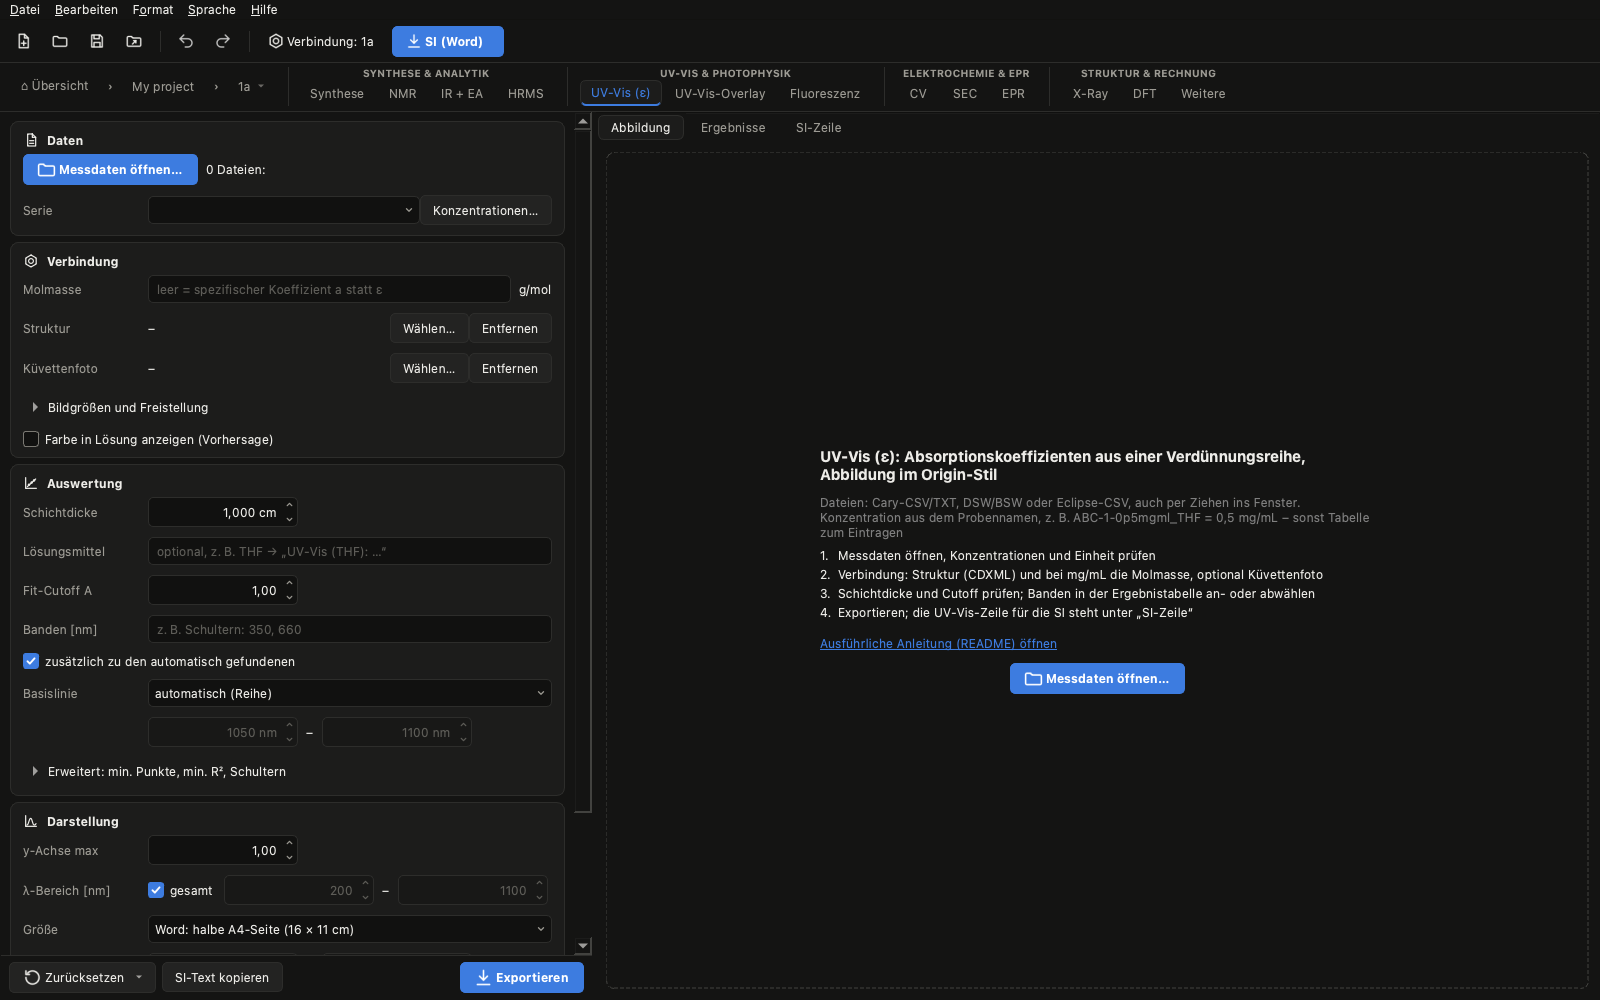
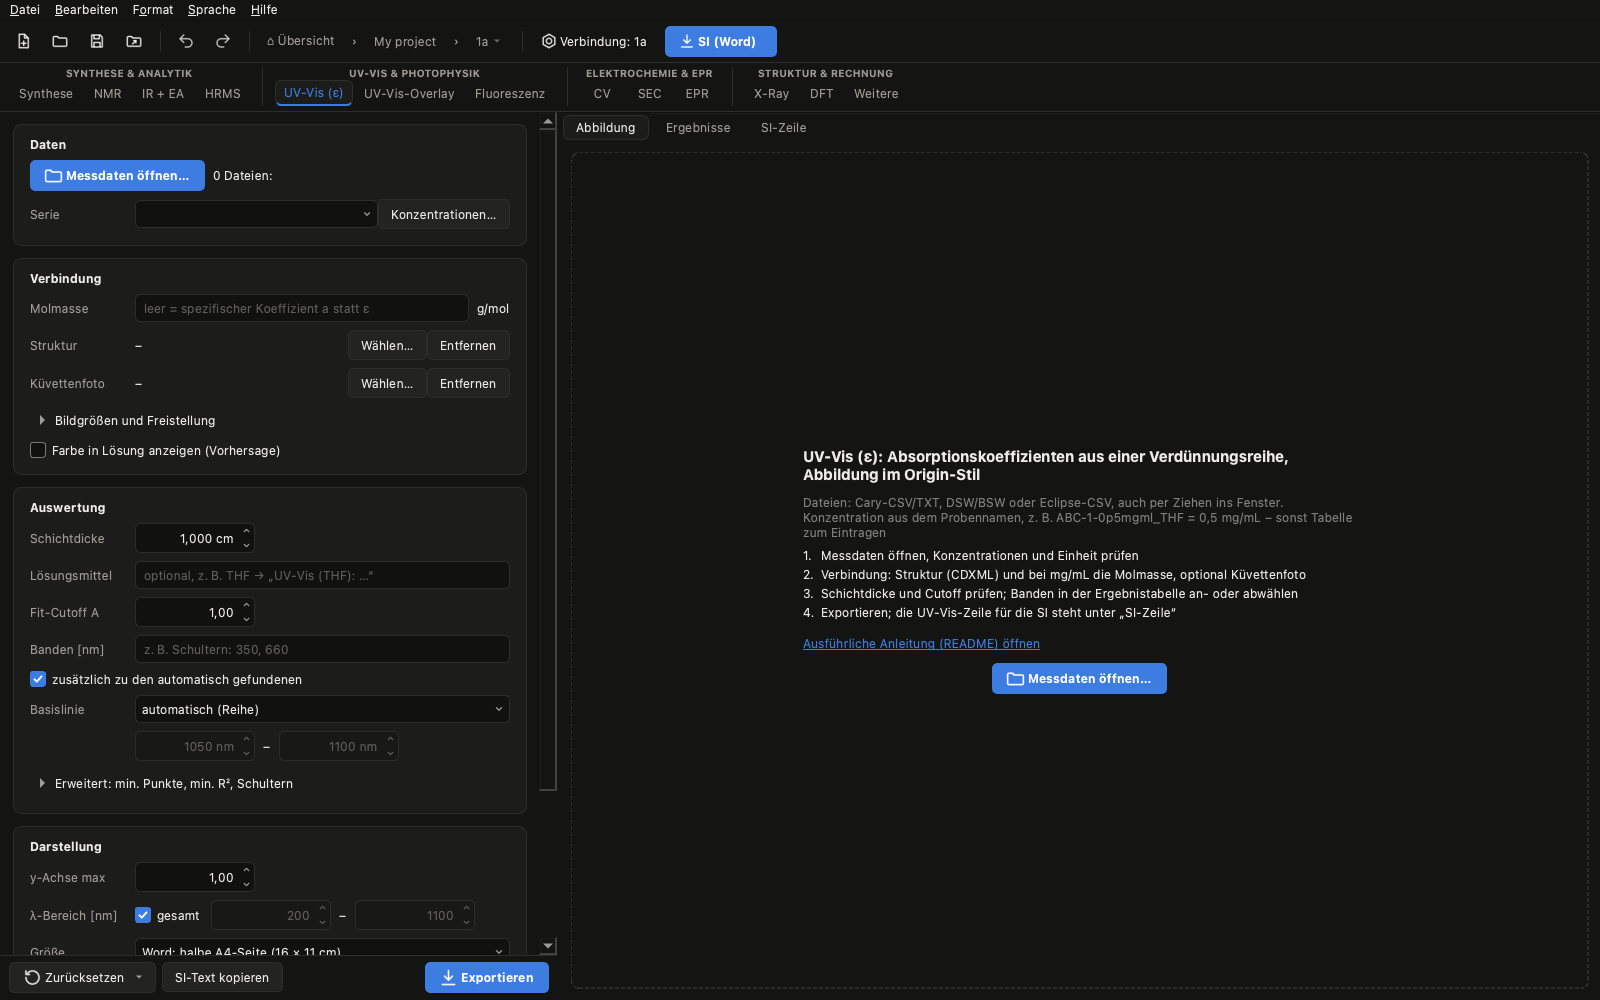
ui: spacing grid, dialog margins, unified card titles, changelog and screenshots
- Cards and forms on a 4/8/12/16 grid; ε tab cards match the other tabs (no title icons)
- Dialogs: 16 px margins, default button highlighted (central in STYLE)
- "Display" cards in CV/SEC/EPR named like X-Ray/DFT; X-Ray result tabs "Caption"/"Tables"
- Other tab: empty list hidden
- tools/compare_figures.py: pixel comparison of two selftest runs (figures must not change)
- CHANGELOG (Unreleased), README Mnova card, README screenshots regenerated

diff --git a/elucida/app/style.py b/elucida/app/style.py
@@ -11,8 +11,9 @@ import shiboken6
 from PySide6.QtCore import QByteArray, QEvent, QObject, QRectF, Qt
 from PySide6.QtGui import QColor, QGuiApplication, QIcon, QImage, QPainter, QPalette, QPixmap
 from PySide6.QtSvg import QSvgRenderer
-from PySide6.QtWidgets import (QAbstractSpinBox, QApplication, QComboBox, QFormLayout, QFrame, QHBoxLayout, QLabel,
-                               QScrollArea, QSizePolicy, QPushButton, QStyleFactory, QVBoxLayout, QWidget)
+from PySide6.QtWidgets import (QAbstractSpinBox, QApplication, QComboBox, QDialog, QFileDialog, QFormLayout, QFrame,
+                               QHBoxLayout, QLabel, QMessageBox, QScrollArea, QSizePolicy, QPushButton, QStyleFactory,
+                               QVBoxLayout, QWidget)
 
 COLORS = {
     # Abstufung wie im Entwurf: Seite < Karte, Felder etwas abgesetzt, warme Grautöne, dezente Ränder
@@ -33,11 +34,7 @@ _SVG = {
     "reveal": '<path d="M3 7.5A1.5 1.5 0 0 1 4.5 6h4l2 2h9A1.5 1.5 0 0 1 21 9.5v8a1.5 1.5 0 0 1-1.5 1.5h-15'
               'A1.5 1.5 0 0 1 3 17.5z"/><path d="M10 16l4.5-4.5M11.5 11.5h3v3"/>',
     "reset": '<path d="M4.5 12a7.5 7.5 0 1 0 2.2-5.3"/><path d="M4.5 4.5v4h4"/>',
-    "data": '<path d="M7 3h7l5 5v13H7z"/><path d="M14 3v5h5M10 13h6M10 17h6"/>',
     "compound": '<path d="M12 3l7.8 4.5v9L12 21l-7.8-4.5v-9z"/><circle cx="12" cy="12" r="3.6"/>',
-    "eval": '<path d="M4 4v16h16"/><path d="M6.5 17.5 19 6"/><circle cx="9" cy="14.6" r="1.1"/>'
-            '<circle cx="13" cy="11.3" r="1.1"/><circle cx="16.6" cy="8.1" r="1.1"/>',
-    "plot": '<path d="M4 4v16h16"/><path d="M6 18c2.5 0 3-10 5.5-10S14 18 17 18c1.2 0 2-1 2.5-2"/>',
     "new": '<path d="M7 3h7l5 5v13H7z"/><path d="M14 3v5h5M13 12v6M10 15h6"/>',
     "save": '<path d="M5 4h11l3 3v13H5z"/><path d="M8 4v5h7V4M8 20v-6h8v6"/>',
     "undo": '<path d="M9 14 4 9l5-5"/><path d="M4 9h10.5a5.5 5.5 0 0 1 0 11H11"/>',
@@ -146,25 +143,20 @@ def list_button(txt):
 
 def hide_when_empty(table):
     """Dateiliste ohne Einträge ausblenden (Leer-Zustand: die Anleitung rechts nennt Dateien und ersten Schritt)."""
-    upd = lambda *_: shiboken6.isValid(table) and table.setVisible(table.rowCount() > 0)   # Neuaufbau: schon gelöscht
+    upd = lambda *_: shiboken6.isValid(table) and table.setVisible(table.model().rowCount() > 0)   # Neuaufbau: gelöscht
     m = table.model()
     for sig in (m.rowsInserted, m.rowsRemoved, m.modelReset):
         sig.connect(upd)
     upd()
 
 
-def card(title, icon_name=None):
-    """Gruppe als Karte mit Symbol im Titel. Gibt (Karte, Inhalts-Widget) zurück."""
+def card(title):
+    """Gruppe als Karte, Titel und Ränder wie QGroupBox in den übrigen Tabs. Gibt (Karte, Inhalts-Widget) zurück."""
     frame = QFrame(objectName="card")
     v = QVBoxLayout(frame)
-    v.setContentsMargins(12, 10, 12, 10)
-    v.setSpacing(6)
+    v.setContentsMargins(16, 12, 16, 16)
+    v.setSpacing(8)
     head = QHBoxLayout()
-    head.setSpacing(6)
-    if icon_name:
-        lb = QLabel(objectName="cardIcon")
-        lb.setPixmap(pixmap(icon_name, 16))
-        head.addWidget(lb)
     t = QLabel(title, objectName="cardTitle")
     head.addWidget(t)
     head.addStretch(1)
@@ -197,10 +189,10 @@ def tidy(root):
         top.setSpacing(12)
     for g in root.findChildren(QGroupBox):                    # Karten: gleicher Innenrand (oben sitzt der Titel)
         if g.layout() is not None and not any(isinstance(f, Fold) and f.group is g for f in g.children()):
-            g.layout().setContentsMargins(16, 6, 16, 14)
+            g.layout().setContentsMargins(16, 8, 16, 16)       # Raster 4/8/12/16
     for fl in root.findChildren(QFormLayout):
-        fl.setVerticalSpacing(10)
-        fl.setHorizontalSpacing(14)
+        fl.setVerticalSpacing(8)
+        fl.setHorizontalSpacing(12)
         for r in range(fl.rowCount()):
             it = fl.itemAt(r, QFormLayout.SpanningRole)
             if it is not None and isinstance(it.widget(), QPushButton):
@@ -303,7 +295,7 @@ def tidy(root):
 class _WheelGuard(QObject):
     """Mausrad über Zahlenfeldern und Auswahllisten in einer scrollbaren Spalte: ohne Fokus scrollt die Spalte weiter,
     statt beim Darüberfahren den Wert zu verstellen. Erst nach Anklicken (Fokus) ändert das Mausrad den Wert.
-    Einmal für die ganze Anwendung (apply)."""
+    Dazu einheitliche Dialogränder (16 px wie die Karten). Einmal für die ganze Anwendung (apply)."""
 
     def eventFilter(self, obj, ev):
         t = ev.type()
@@ -313,6 +305,9 @@ class _WheelGuard(QObject):
                 obj.setAlignment(Qt.AlignRight | Qt.AlignVCenter)
             if obj.property("fieldw"):                          # Rasterbreite nach dem Stylesheet erneut festsetzen
                 obj.setFixedWidth(FIELD_W)
+        elif (t == QEvent.Polish and isinstance(obj, QDialog) and not isinstance(obj, (QMessageBox, QFileDialog))
+              and obj.layout() is not None):
+            obj.layout().setContentsMargins(16, 16, 16, 16)
         elif t == QEvent.Wheel and isinstance(obj, (QAbstractSpinBox, QComboBox)) and not obj.hasFocus():
             p = obj.parentWidget()
             while p is not None and not isinstance(p, QScrollArea):
@@ -485,7 +480,7 @@ class Fold(QObject):
         self.opened = bool(on)
         self.body.setVisible(self.opened)
         lay = self.group.layout()                             # zugeklappt: nur die Titelzeile, kein leerer Innenrand
-        lay.setContentsMargins(16, 6 if self.opened else 0, 16, 14 if self.opened else 0)
+        lay.setContentsMargins(16, 8 if self.opened else 0, 16, 16 if self.opened else 0)
         if self.opened:
             self.group.setMinimumHeight(0)
             self.group.setMaximumHeight(16777215)
@@ -589,6 +584,9 @@ QPushButton:disabled {{ color: {c['disabled']}; background: {c['alt']}; }}
 QPushButton[accent="true"] {{ background: {c['accent']}; color: {c['on_accent']}; border-color: {c['accent']};
     font-weight: bold; }}
 QPushButton[accent="true"]:hover {{ background: {c['accent_hover']}; border-color: {c['accent_hover']}; }}
+QDialog QPushButton:default:enabled {{ background: {c['accent']}; color: {c['on_accent']}; border-color: {c['accent']};
+    font-weight: bold; }}
+QDialog QPushButton:default:enabled:hover {{ background: {c['accent_hover']}; border-color: {c['accent_hover']}; }}
 QTabWidget::pane {{ border: 1px solid {c['border']}; border-radius: 8px; background: {c['window']}; top: -1px; }}
 QTabBar::tab {{ background: transparent; color: {c['text2']}; border: 1px solid transparent; border-radius: 6px;
     padding: 4px 12px; margin: 3px 2px; }}

diff --git a/elucida/app/i18n.py b/elucida/app/i18n.py
@@ -1108,7 +1108,7 @@ TEXTS = {
     "cv_offset_tip": ("Lage von Fc⁺/Fc gegen die Referenzelektrode; wird von allen Potentialen abgezogen.",
                       "Position of Fc⁺/Fc vs. the reference electrode; subtracted from all potentials."),
     "cv_electrode": ("Referenzelektrode", "Reference electrode"),
-    "cv_display": ("Darstellung CV", "CV display"),
+    "cv_display": ("Darstellung", "Display"),
     "cv_gradient": ("Farbverlauf nach Scanrate (blau → rot)", "Colour gradient by scan rate (blue → red)"),
     "cv_density": ("Stromdichte j [mA cm⁻²] (Elektrodenfläche aus der Datei)",
                    "Current density j [mA cm⁻²] (electrode area from the file)"),
@@ -1185,7 +1185,7 @@ TEXTS = {
     "sec_shift_tip": ("Lage von Fc⁺/Fc gegen die Referenzelektrode; wird abgezogen (0 = Achse wie gemessen).",
                       "Position of Fc⁺/Fc vs. the reference electrode; subtracted (0 = axis as measured)."),
     "sec_from_cv": ("aus CV-Tab", "from CV tab"),
-    "sec_display": ("Darstellung SEC", "SEC display"),
+    "sec_display": ("Darstellung", "Display"),
     "sec_mode": ("Ansicht", "View"),
     "sec_mode_spectra": ("Spektrenserie", "Spectral series"),
     "sec_mode_trace": ("A bei λ gegen E", "A at λ vs. E"),
@@ -1282,7 +1282,7 @@ TEXTS = {
                         "Field ranges that are not drawn (mT), e.g. the sharp radical signal at g ≈ 2."),
     "epr_smooth": ("Glätten", "Smoothing"),
     "epr_smooth_tip": ("Gleitender Mittelwert über diese Feldbreite", "Moving average over this field width"),
-    "epr_display": ("Darstellung EPR", "EPR display"),
+    "epr_display": ("Darstellung", "Display"),
     "epr_xrange": ("B-Bereich", "B range"),
     "epr_unit": ("Feldeinheit", "Field unit"),
     "epr_normalize": ("Normieren (Messung: max |I| = 1, Simulation mit demselben Faktor)",
@@ -1526,7 +1526,7 @@ TEXTS = {
                           "Olex2/SHELXL and refine again"),
     "xr_cif_no_esd": ("Wert aus der CIF (ohne Standardabweichung, z. B. reitendes H)",
                       "value from the CIF (no s.u., e.g. riding H)"),
-    "xr_tables": ("Tabellen für die SI", "Tables for the SI"),
+    "xr_tables": ("Tabellen", "Tables"),
     "xr_copy_crystal": ("Kristalldaten kopieren", "Copy crystal data"),
     "xr_copy_params": ("Parameter kopieren", "Copy parameters"),
     "xr_excel": ("Excel speichern", "Save Excel"),
@@ -1600,7 +1600,7 @@ TEXTS = {
     "xr_wire_name": ("Drahtmodell-Gruppen", "Wireframe groups"),
     "xr_wire_name_ph": ("Bezeichnung für die Bildunterschrift, z. B. Dipp groups",
                         "Name for the caption, e.g. Dipp groups"),
-    "xr_caption": ("Bildunterschrift (Vorschlag)", "Caption (suggestion)"),
+    "xr_caption": ("Bildunterschrift", "Caption"),
     "xr_caption_copy": ("Bildunterschrift kopieren", "Copy caption"),
     "xr_align": ("Ausrichten", "Orientation"),
     "xr_align_bond": ("Bindung zeigt", "Bond points"),

diff --git a/tools/compare_figures.py b/tools/compare_figures.py
@@ -1,0 +1,51 @@
+"""Abbildungen zweier Selbsttest-Läufe pixelgenau vergleichen (UI-Änderungen dürfen die Abbildungen nie ändern).
+
+    QT_QPA_PLATFORM=offscreen python Elucida.py --selftest vorher      # vor der Änderung (z. B. git stash)
+    QT_QPA_PLATFORM=offscreen python Elucida.py --selftest nachher
+    python tools/compare_figures.py vorher nachher
+
+Vergleicht alle PNG (Pixel, sonst Bytes). Bekannt schwankend auch ohne Änderung: epr_p6.png (Fit-Startwerte).
+xray_test_xtest_a.png hängt von der Vorschaugröße ab (simuliertes Drehen um 40 px), also von der Spaltenbreite.
+Exit-Code 1 bei Abweichungen.
+"""
+import sys
+from pathlib import Path
+
+import numpy as np
+from PIL import Image
+
+FLAKY = {"epr_p6.png"}
+
+
+def pixels(p):
+    try:
+        return np.asarray(Image.open(p).convert("RGBA"))
+    except Exception:                                  # Test-Attrappen mit .png-Endung
+        return np.frombuffer(p.read_bytes(), np.uint8)
+
+
+def main(a, b):
+    a, b = Path(a), Path(b)
+    same, diff, miss = 0, [], []
+    for p in sorted(a.rglob("*.png")):
+        rel = p.relative_to(a)
+        q = b / rel
+        if not q.exists():
+            miss.append(rel)
+            continue
+        x, y = pixels(p), pixels(q)
+        if x.shape == y.shape and (x == y).all():
+            same += 1
+        else:
+            n = int((x != y).any(axis=-1).sum()) if x.ndim == 3 and x.shape == y.shape else -1
+            diff.append((rel, n))
+    for rel, n in diff:
+        print(f"DIFF {rel} ({n} px){'  [bekannt schwankend]' if rel.name in FLAKY else ''}")
+    for rel in miss:
+        print(f"FEHLT {rel}")
+    print(f"gleich {same}, verschieden {len(diff)}, fehlend {len(miss)}")
+    return 1 if miss or any(rel.name not in FLAKY for rel, _ in diff) else 0
+
+
+if __name__ == "__main__":
+    sys.exit(main(*sys.argv[1:3]))

diff --git a/elucida/app/main_window.py b/elucida/app/main_window.py
@@ -768,9 +768,11 @@ class MainWindow(QMainWindow):
         # ---- linke Spalte
         left = QWidget()
         lv = QVBoxLayout(left)
+        lv.setContentsMargins(12, 12, 12, 12)            # wie STYLE.tidy in den übrigen Tabs
+        lv.setSpacing(12)
 
         forms = []
-        g, body = STYLE.card(T("grp_data"), "data")
+        g, body = STYLE.card(T("grp_data"))
         f = make_form(body)
         f.setContentsMargins(0, 0, 0, 0)
         forms.append(f)
@@ -796,7 +798,7 @@ class MainWindow(QMainWindow):
         f.addRow(T("series"), row)
         lv.addWidget(g)
 
-        g, body = STYLE.card(T("grp_compound"), "compound")
+        g, body = STYLE.card(T("grp_compound"))
         f = make_form(body)
         f.setContentsMargins(0, 0, 0, 0)
         forms.append(f)
@@ -877,7 +879,7 @@ class MainWindow(QMainWindow):
         self._color_spectra = None
         lv.addWidget(g)
 
-        g, body = STYLE.card(T("grp_eval"), "eval")
+        g, body = STYLE.card(T("grp_eval"))
         f = make_form(body)
         f.setContentsMargins(0, 0, 0, 0)
         forms.append(f)
@@ -923,7 +925,7 @@ class MainWindow(QMainWindow):
         compact(self.sp_d, self.sp_cut, self.sp_min, self.sp_r2)
         lv.addWidget(g)
 
-        g, body = STYLE.card(T("grp_plot"), "plot")
+        g, body = STYLE.card(T("grp_plot"))
         f = make_form(body)
         f.setContentsMargins(0, 0, 0, 0)
         forms.append(f)

diff --git a/elucida/tabs/other.py b/elucida/tabs/other.py
@@ -13,7 +13,7 @@ import numpy as np
 from PySide6.QtWidgets import (QComboBox, QFileDialog, QGroupBox, QHBoxLayout, QLineEdit, QListWidget, QPushButton,
                                QVBoxLayout)
 
-from elucida.app import project as PRJ
+from elucida.app import project as PRJ, style as STYLE
 from elucida.app.i18n import T
 from elucida.app.style import make_form
 from elucida.tabs import base as TABS
@@ -106,6 +106,7 @@ class OtherTab(TABS.FigureTab):
         self.lst.setMinimumHeight(120)
         self.lst.currentRowChanged.connect(self.entry_selected)
         v.addWidget(self.lst)
+        STYLE.hide_when_empty(self.lst)
         row = QHBoxLayout()
         for txt, fn in ((T("other_add"), self.add_files), (T("other_up"), self.move_up), (T("remove"), self.remove)):
             b = QPushButton(txt)

diff --git a/CHANGELOG.de.md b/CHANGELOG.de.md
@@ -2,6 +2,22 @@
 
 # Änderungen
 
+## Unveröffentlicht
+
+### Geändert
+- **Aufbau:** Die Einstellungsspalte ist in allen Tabs gleich breit und fest (nicht mehr verschiebbar); lange
+  Beschriftungen gekürzt (Details im Tooltip), Zahlenfelder schmaler, Listenknöpfe in zwei Reihen (Hinzufügen /
+  Auswahl). Leere Dateilisten bleiben ausgeblendet, bis etwas geladen ist. Karten, Formulare und Dialoge mit einem
+  gemeinsamen Abstandsraster; der Standardknopf jedes Dialogs ist hervorgehoben.
+- **Navigation:** Der Pfad (Übersicht › Projekt › Verbindung) steht jetzt in der Werkzeugleiste statt in der
+  Tab-Leiste; „Verbindung“ und „SI (Word)“ erscheinen nur bei offener Verbindung. Das Fenster lässt sich schmaler
+  ziehen (etwa 960 px, halber Full-HD-Bildschirm).
+- **NMR:** Mnova-Dokumente der Verbindung oben in der linken Spalte (Dateiname, ablegen, in Mnova öffnen) statt im
+  Reiter „Rohdaten“.
+- **Projektseite:** Titel über die volle Breite, Aktionen in einer Zeile darunter. Mnova-Ablage für das ganze Projekt
+  entfernt (vorhandene Dateien bleiben im Ordner `mnova/`).
+- **Startbildschirm:** Beispielprojekt und Beispielverbindung als Links unten.
+
 ## 2.4.0 – 31.10.2026
 
 ### Neu

diff --git a/CHANGELOG.md b/CHANGELOG.md
@@ -2,6 +2,22 @@
 
 # Changelog
 
+## Unreleased
+
+### Changed
+- **Layout:** the settings column has the same fixed width in every tab (no longer draggable); long labels shortened
+  (details in the tooltip), number fields narrower, list buttons in two rows (add / selection). Empty file lists stay
+  hidden until something is loaded. Cards, forms and dialogs use one spacing grid; the default button of every dialog
+  is highlighted.
+- **Navigation:** the path (Overview › Project › Compound) moved from the tab bar into the toolbar; "Compound" and
+  "SI (Word)" only show with an open compound. The window can be made narrower (about 960 px, half of a full-HD
+  screen).
+- **NMR:** Mnova documents of the compound at the top of the left column (file name, store, open in Mnova) instead of
+  the "Raw data" tab.
+- **Project page:** title over the full width, actions in a row below. Storing a Mnova document for the whole project
+  was removed (existing files stay in the folder `mnova/`).
+- **Start screen:** example project and example compound as links at the bottom.
+
 ## 2.4.0 – 2026-10-31
 
 ### New

diff --git a/README.de.md b/README.de.md
@@ -329,8 +329,9 @@ als eigene Word-Datei oder im SI-Abschnitt.
 - **Rohdaten** (Reiter neben der Abbildung): **TopSpin-Daten …** nimmt ein Experiment, einen Datensatz (10, 11, …) oder
   einen Ordner mit mehreren Datensätzen – auch per Ziehen ins Fenster – und übernimmt jedes Experiment vollständig in
   die Verbindung, nach Art sortiert (`data/nmr/1H`, `13C`, `DEPT135`, `HSQC` …). Passt genau ein Experiment zu einem Spektrum,
-  wird es automatisch zugeordnet (Parameter, Temperatur). **Mnova-Dokumente** (`.mnova`) liegen in `data/nmr/mnova`;
-  Doppelklick öffnet sie.
+  wird es automatisch zugeordnet (Parameter, Temperatur).
+- **Mnova-Dokumente** (`.mnova`): Karte oben in der linken Spalte – ablegen (liegen in `data/nmr/mnova`) und in Mnova
+  öffnen.
 - Spektren können auch **EMF** aus Mnova sein: Sie gehen unverändert nach Word (Vektor, ohne eingesetzte Struktur); für
   Vorschau und Struktur SVG verwenden.
 - **Word:** zwei Spektren je Seite, „Figure Sn: ¹H NMR (500 MHz, CDCl₃, 298 K) of **Name**.“

diff --git a/README.md b/README.md
@@ -322,7 +322,9 @@ to Word or as part of the SI section.
 - **Raw data** (tab next to the figure): **TopSpin data …** takes an experiment, a dataset (10, 11, …) or a folder with
   several datasets – also by drag & drop – and copies each experiment completely into the compound, sorted by kind
   (`data/nmr/1H`, `13C`, `DEPT135`, `HSQC` …). If exactly one experiment fits a spectrum, it is assigned automatically
-  (parameters, temperature). **Mnova documents** (`.mnova`) are kept in `data/nmr/mnova`; double-click opens them.
+  (parameters, temperature).
+- **Mnova documents** (`.mnova`): card at the top of the left column – store them (kept in `data/nmr/mnova`) and
+  open them in Mnova.
 - Spectra can also be **EMF** from Mnova: they go into Word unchanged (vector, without the inserted structure); for the
   preview and the structure use SVG.
 - **Word:** two spectra per page, "Figure Sn: ¹H NMR (500 MHz, CDCl₃, 298 K) of **Name**."

diff --git a/CLAUDE.md b/CLAUDE.md
@@ -412,6 +412,7 @@ pip install -r requirements.txt                       # Python 3.12 (wie CI)
 python Elucida.py                                     # App starten (oder python -m elucida)
 QT_QPA_PLATFORM=offscreen python Elucida.py --selftest selftest_out   # MUSS vor jedem Commit „OK“ melden
 python tools/build.py                                 # PyInstaller-Build (braucht: pip install pyinstaller)
+python tools/compare_figures.py vorher nachher        # Abbildungen zweier Selbsttest-Läufe pixelgenau (UI-Änderungen)
 python tools/make_screenshots.py                       # README-Screenshots (docs/screenshots): Cover = Startbildschirm mit Beispielprojekt, Tabs leer mit Anleitung; alles nur dunkel (Nutzerwunsch)
 ```
 - Neue Funktion → eigener Abschnitt im `selftest()` (`elucida/selftest.py`) (Muster: `report.append("…: OK")`).
